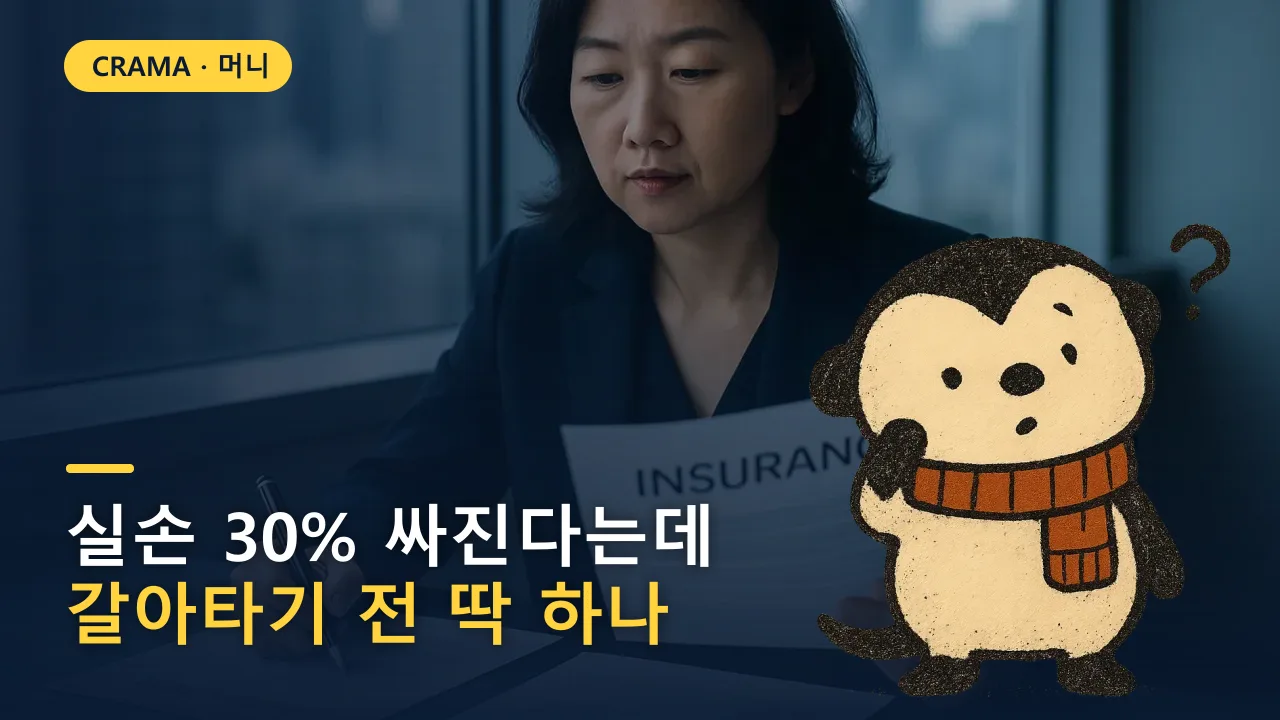
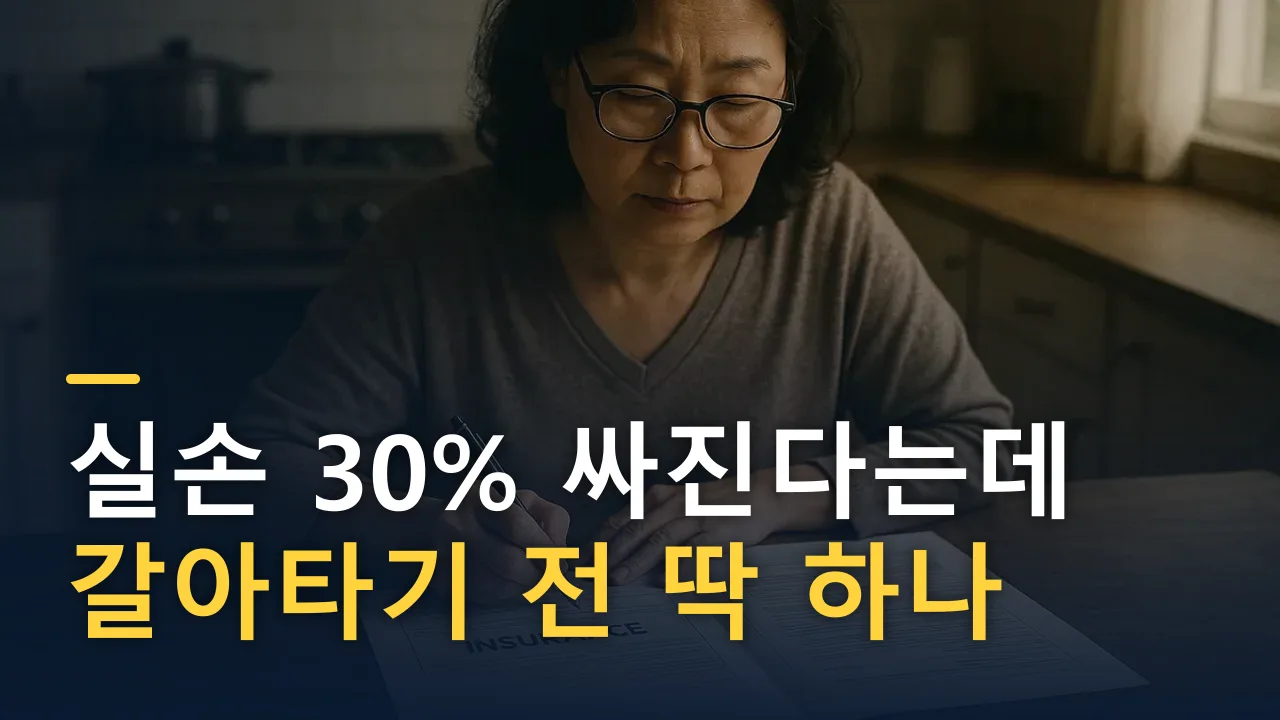
feat(thumb): 썸네일 마스코트·칩 제거(사진+텍스트만) + 히어로 실사 다큐톤(덜 AI) + 신규 글: 스트레스 DSR 대출한도
- gen-yt-thumb.js: 마스코트/카테고리칩 제거, 헤드라인 더 크게·넓게(사진+텍스트)
- imagePrompt: 다큐멘터리/포토저널리즘 톤으로 — 광택·CGI 느낌 억제, 오렌지 금지
- 실손 글 히어로·썸네일 새 스타일로 재생성
- 신규: 스트레스 DSR 3단계 대출한도 가이드(비수도권 유예 6/30 종료 시의성, 오디오 포함)

diff --git a/automation/gen-yt-thumb.js b/automation/gen-yt-thumb.js
@@ -1,6 +1,6 @@
-// 유튜브식 카드 썸네일 — 실사 사진 배경 + 좌측 굵은 헤드라인(딥블루/옐로) + 우측 크라미(마스코트)
-//   node gen-yt-thumb.js <slug>                 (frontmatter의 thumbTitle/title·category 사용)
-//   node gen-yt-thumb.js <slug> --title "1줄\n2줄" --cat money --pose crami-think
+// 유튜브식 카드 썸네일 — 실사 사진 배경 + 굵은 한글 헤드라인(딥블루/옐로). 마스코트·칩 없음.
+//   node gen-yt-thumb.js <slug>                 (frontmatter의 thumbTitle/title 사용)
+//   node gen-yt-thumb.js <slug> --title "1줄\n2줄"
 //   node gen-yt-thumb.js --all                  (모든 글 일괄 — 히어로 webp 있는 것만)
 // 결과: public/img/generated/<slug>-thumb.webp (1280x720), frontmatter에 thumb 자동 기록
 import 'dotenv/config';
@@ -8,23 +8,14 @@ import sharp from 'sharp';
 import fs from 'node:fs';
 import fsp from 'node:fs/promises';
 import path from 'node:path';
-import { fileURLToPath } from 'node:url';
+import { fileURLToPath, pathToFileURL } from 'node:url';
 import { BLOG_DIR, PUBLIC_IMG } from './lib/util.js';
 
 const __dirname = path.dirname(fileURLToPath(import.meta.url));
 const W = 1280, H = 720;
 const NAVY = '#0a1b33', YELLOW = '#ffd23e', WHITE = '#ffffff';
-const CAT = { money: '머니', ai: 'AI', income: '지원금' };
-// 톤앤매너에 맞는 크라미 포즈(카테고리별 후보 → slug 해시로 변주)
-const POSES = {
-  money: ['crami-recommend', 'crami-think', 'crami-notice'],
-  ai: ['crami-live', 'crami-notice', 'crami-celebrate', 'crami-think'],
-  income: ['crami-recommend', 'crami-celebrate', 'crami-love'],
-};
-const MASCOT = { size: 520, left: W - 520, top: H - 520 }; // 우하단
 
 const esc = (s) => String(s ?? '').replace(/&/g, '&amp;').replace(/</g, '&lt;').replace(/>/g, '&gt;').replace(/"/g, '&quot;');
-const hash = (s) => { let h = 0; for (const c of String(s)) h = (h * 31 + c.charCodeAt(0)) >>> 0; return h; };
 const visLen = (s) => String(s).replace(/\s/g, '').length || 1;
 
 function wrapKo(t, max) {
@@ -38,53 +29,45 @@ function wrapKo(t, max) {
 function deriveLines(title, thumbTitle) {
   if (thumbTitle && thumbTitle.trim()) return thumbTitle.split(/\\n|\n/).map((s) => s.trim()).filter(Boolean).slice(0, 3);
   let t = String(title).replace(/[''""]/g, '').trim().split(/\s[—\-–]\s/)[0].trim();
-  return wrapKo(t, 9).slice(0, 2);
-}
-function pickPose(slug, cat, override) {
-  if (override) return override;
-  const list = POSES[cat] || POSES.money;
-  return list[hash(slug) % list.length];
+  return wrapKo(t, 11).slice(0, 2);
 }
 
-// 배경: 그라데이션(좌·하단 어둡게) — 사진 위 텍스트 가독성
+// 배경: 그라데이션(하단·좌측 어둡게) — 사진 위 텍스트 가독성
 function buildBack() {
   return Buffer.from(`<svg xmlns="http://www.w3.org/2000/svg" width="${W}" height="${H}">
   <defs>
     <linearGradient id="v" x1="0" y1="0" x2="0" y2="1">
-      <stop offset="0.25" stop-color="${NAVY}" stop-opacity="0.05"/>
-      <stop offset="0.7" stop-color="${NAVY}" stop-opacity="0.55"/>
-      <stop offset="1" stop-color="${NAVY}" stop-opacity="0.92"/>
+      <stop offset="0.28" stop-color="${NAVY}" stop-opacity="0"/>
+      <stop offset="0.66" stop-color="${NAVY}" stop-opacity="0.5"/>
+      <stop offset="1" stop-color="${NAVY}" stop-opacity="0.94"/>
     </linearGradient>
     <linearGradient id="l" x1="0" y1="0" x2="1" y2="0">
-      <stop offset="0" stop-color="${NAVY}" stop-opacity="0.82"/>
-      <stop offset="0.5" stop-color="${NAVY}" stop-opacity="0.28"/>
-      <stop offset="0.78" stop-color="${NAVY}" stop-opacity="0"/>
+      <stop offset="0" stop-color="${NAVY}" stop-opacity="0.62"/>
+      <stop offset="0.5" stop-color="${NAVY}" stop-opacity="0.12"/>
+      <stop offset="0.8" stop-color="${NAVY}" stop-opacity="0"/>
     </linearGradient>
   </defs>
-  <rect width="${W}" height="${H}" fill="#000" opacity="0.14"/>
+  <rect width="${W}" height="${H}" fill="#000" opacity="0.1"/>
   <rect width="${W}" height="${H}" fill="url(#l)"/>
   <rect width="${W}" height="${H}" fill="url(#v)"/>
 </svg>`);
 }
 
-// 전경: 카테고리 칩 + 좌측 헤드라인 + Crama
-function buildFront(lines, catLabel) {
-  const maxTextW = MASCOT.left - 64 - 20;
-  const maxLen = Math.max(...lines.map(visLen));
-  const fs1 = Math.max(54, Math.min(92, Math.floor(maxTextW / maxLen)));
-  const lh = Math.round(fs1 * 1.16);
+// 전경: 좌측 액센트 바 + 헤드라인(둘째 줄 옐로)
+function buildFront(lines) {
   const x = 64;
+  const maxTextW = W - x - 80;
+  const maxLen = Math.max(...lines.map(visLen));
+  const fs1 = Math.max(58, Math.min(104, Math.floor(maxTextW / maxLen)));
+  const lh = Math.round(fs1 * 1.16);
   const blockH = lines.length * lh;
-  const baseY = H - 70 - blockH + fs1;
-  const lineTspans = (color) => lines.map((ln, i) => `<tspan x="${x}" y="${baseY + i * lh}"${color ? ` fill="${color}"` : ''}>${esc(ln)}</tspan>`).join('');
+  const baseY = H - 72 - blockH + fs1;
+  const shadow = lines.map((ln, i) => `<tspan x="${x}" y="${baseY + i * lh}">${esc(ln)}</tspan>`).join('');
   const colored = lines.map((ln, i) => `<tspan x="${x}" y="${baseY + i * lh}" fill="${i === 1 ? YELLOW : WHITE}">${esc(ln)}</tspan>`).join('');
-  const chipW = 168 + catLabel.length * 30;
   return Buffer.from(`<svg xmlns="http://www.w3.org/2000/svg" width="${W}" height="${H}">
-  <defs><filter id="sh" x="-25%" y="-25%" width="150%" height="170%"><feGaussianBlur stdDeviation="7"/></filter></defs>
-  <rect x="${x}" y="40" width="${chipW}" height="52" rx="26" fill="${YELLOW}"/>
-  <text x="${x + 28}" y="76" font-family="Malgun Gothic" font-size="27" font-weight="bold" fill="${NAVY}">CRAMA · ${esc(catLabel)}</text>
-  <rect x="${x + 2}" y="${baseY - fs1 - 30}" width="68" height="9" rx="4" fill="${YELLOW}"/>
-  <text font-family="Malgun Gothic" font-size="${fs1}" font-weight="bold" fill="#000" opacity="0.62" filter="url(#sh)">${lineTspans(null)}</text>
+  <defs><filter id="sh" x="-25%" y="-25%" width="150%" height="170%"><feGaussianBlur stdDeviation="8"/></filter></defs>
+  <rect x="${x + 2}" y="${baseY - fs1 - 32}" width="74" height="10" rx="5" fill="${YELLOW}"/>
+  <text font-family="Malgun Gothic" font-size="${fs1}" font-weight="bold" fill="#000" opacity="0.66" filter="url(#sh)">${shadow}</text>
   <text font-family="Malgun Gothic" font-size="${fs1}" font-weight="bold">${colored}</text>
 </svg>`);
 }
@@ -94,14 +77,13 @@ function readFm(slug) {
   const raw = fs.readFileSync(file, 'utf8');
   const fm = (raw.match(/^---\n([\s\S]*?)\n---/) || [, ''])[1];
   const get = (k) => { const r = fm.match(new RegExp(`^${k}:\\s*(.+)$`, 'm')); return r ? r[1].trim().replace(/^['"]|['"]$/g, '') : ''; };
-  return { file, raw, title: get('title'), category: get('category') || 'money', thumbTitle: get('thumbTitle'), heroImage: get('heroImage') };
+  return { file, raw, title: get('title'), thumbTitle: get('thumbTitle'), heroImage: get('heroImage') };
 }
 
 async function generateThumb(slug, opts = {}) {
   const fm = readFm(slug);
   const title = opts.title || fm.title;
   const thumbTitle = opts.thumbTitle != null ? opts.thumbTitle : fm.thumbTitle;
-  const category = opts.cat || fm.category;
   const heroRel = fm.heroImage || `/img/generated/${slug}-hero.webp`;
   const heroFile = path.join(PUBLIC_IMG, '..', '..', heroRel.replace(/^\//, ''));
   const srcFile = opts.src || (fs.existsSync(heroFile) ? heroFile : path.join(PUBLIC_IMG, `${slug}-hero.webp`));
@@ -109,20 +91,11 @@ async function generateThumb(slug, opts = {}) {
 
   const lines = deriveLines(title, thumbTitle);
   const bg = await sharp(srcFile).resize(W, H, { fit: 'cover', position: 'attention' }).toBuffer();
-
-  const layers = [{ input: buildBack(), top: 0, left: 0 }];
-  // 우측 크라미
-  const pose = pickPose(slug, category, opts.pose);
-  const poseFile = path.join(PUBLIC_IMG, `${pose}.webp`);
-  if (fs.existsSync(poseFile)) {
-    const m = await sharp(poseFile).resize(MASCOT.size, MASCOT.size, { fit: 'inside' }).toBuffer();
-    layers.push({ input: m, top: MASCOT.top, left: MASCOT.left });
-  }
-  layers.push({ input: buildFront(lines, CAT[category] || '머니'), top: 0, left: 0 });
-
   const outFile = path.join(PUBLIC_IMG, `${slug}-thumb.webp`);
-  await sharp(bg).composite(layers).webp({ quality: 82 }).toFile(outFile);
-  return { outFile, publicPath: `/img/generated/${slug}-thumb.webp`, lines, pose };
+  await sharp(bg)
+    .composite([{ input: buildBack(), top: 0, left: 0 }, { input: buildFront(lines), top: 0, left: 0 }])
+    .webp({ quality: 82 }).toFile(outFile);
+  return { outFile, publicPath: `/img/generated/${slug}-thumb.webp`, lines };
 }
 
 async function ensureThumbField(slug, publicPath) {
@@ -141,23 +114,22 @@ async function main() {
     const slugs = fs.readdirSync(BLOG_DIR).filter((f) => /\.mdx?$/.test(f)).map((f) => f.replace(/\.mdx?$/, ''));
     let ok = 0, skip = 0;
     for (const slug of slugs) {
-      try { const r = await generateThumb(slug); await ensureThumbField(slug, r.publicPath); ok++; console.log('[thumb]', slug, '→', r.pose, '|', r.lines.join(' / ')); }
+      try { const r = await generateThumb(slug); await ensureThumbField(slug, r.publicPath); ok++; console.log('[thumb]', slug, '|', r.lines.join(' / ')); }
       catch (e) { skip++; console.log('[skip]', slug, '—', e.message); }
     }
     console.log(`\n완료: ${ok}장 / 건너뜀 ${skip}`);
     return;
   }
   const slug = args.find((a) => !a.startsWith('--'));
-  if (!slug) { console.error('사용법: node gen-yt-thumb.js <slug> [--title "1줄\\n2줄"] [--cat money] [--pose crami-think] | --all'); process.exit(1); }
-  const r = await generateThumb(slug, { title: flag('--title'), thumbTitle: flag('--title'), cat: flag('--cat'), pose: flag('--pose'), src: flag('--src') });
+  if (!slug) { console.error('사용법: node gen-yt-thumb.js <slug> [--title "1줄\\n2줄"] | --all'); process.exit(1); }
+  const r = await generateThumb(slug, { title: flag('--title'), thumbTitle: flag('--title'), src: flag('--src') });
   const wrote = await ensureThumbField(slug, r.publicPath);
-  console.log(`[thumb] ${r.outFile}\n  포즈: ${r.pose}\n  카피: ${r.lines.join('  /  ')}${wrote ? '\n  frontmatter thumb: 추가됨' : ''}`);
+  console.log(`[thumb] ${r.outFile}\n  카피: ${r.lines.join('  /  ')}${wrote ? '\n  frontmatter thumb: 추가됨' : ''}`);
 }
 
 export { generateThumb, ensureThumbField };
 
-// CLI로 직접 실행할 때만 main() (import 시에는 실행 안 함)
-import { pathToFileURL } from 'node:url';
+// CLI로 직접 실행할 때만 main()
 if (process.argv[1] && import.meta.url === pathToFileURL(process.argv[1]).href) {
   main().catch((e) => { console.error(e); process.exit(1); });
 }

diff --git a/automation/lib/claude.js b/automation/lib/claude.js
@@ -130,14 +130,14 @@ export async function imagePrompt({ title, categoryName }) {
     model: WRITE_MODEL,
     max_tokens: 300,
     system:
-      'You write concise English prompts for a PHOTOREALISTIC editorial photograph used as a thumbnail background. ' +
-      'Style: cinematic photorealism, natural lighting, shallow depth of field, cool modern color grade with deep navy/blue tones. ' +
-      'Keep the lower half relatively dark and uncluttered so bold headline text can be overlaid. ' +
-      'Strictly: a real-looking photo (not illustration, not 3D render, not cartoon), no text, no logos, no charts, no infographics, and AVOID orange/warm/terracotta tones.',
+      'You write a concise English prompt for an AUTHENTIC documentary-style PHOTOGRAPH used as a thumbnail background. ' +
+      'Style: candid photojournalism, shot on a full-frame DSLR with a 35mm or 50mm lens, natural available light, realistic skin and material texture, subtle film grain, true-to-life cool/neutral color grade with deep navy shadows, slightly imperfect and unposed (not staged). ' +
+      'Keep the lower and left area darker and uncluttered so bold headline text can be overlaid. ' +
+      'Strictly avoid: 3D render, CGI, illustration, cartoon, glossy over-polished "AI look", oversaturation, plastic skin, text, logos, watermarks, charts, and any orange/warm/terracotta tones.',
     messages: [
       {
         role: 'user',
-        content: `Article (${categoryName}): "${title}". Describe ONE realistic photographic scene that fits the topic (a concrete subject/setting, e.g. a person, hands, an object, an interior). Max 45 words. Output only the prompt.`,
+        content: `Article (${categoryName}): "${title}". Describe ONE believable real-world photographic scene that fits the topic (a concrete subject/setting — a real person doing something, hands, an everyday object, an ordinary interior or street). Emphasize realism and ordinary detail. Max 45 words. Output only the prompt.`,
       },
     ],
   });

diff --git a/automation/run.js b/automation/run.js
@@ -133,7 +133,7 @@ async function main() {
       const { generateThumb, ensureThumbField } = await import('./gen-yt-thumb.js');
       const r = await generateThumb(slug);
       await ensureThumbField(slug, r.publicPath);
-      log(`⑤-b 카드 썸네일: ${r.pose} | ${r.lines.join(' / ')}`);
+      log(`⑤-b 카드 썸네일: ${r.lines.join(' / ')}`);
     }
   } catch (e) {
     log('⑤-b 썸네일 생성 건너뜀: ' + (e.message || e));